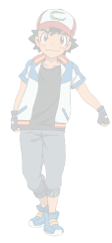
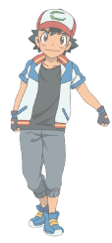
Changed opacity

diff --git a/build/app.js b/build/app.js
@@ -697,7 +697,6 @@ class Shop {
     draw() {
         const ctx = this.canvas.getContext("2d");
         ctx.clearRect(0, 0, this.canvas.width, this.canvas.height);
-        this.drawUnlockableCharacter();
         this.buttons.forEach((button) => {
             button.draw(ctx);
         });

diff --git a/src/gameScreens/Shop.ts b/src/gameScreens/Shop.ts
@@ -67,7 +67,7 @@ class Shop {
     //Clears the canvas every frame
     ctx.clearRect(0, 0, this.canvas.width, this.canvas.height);
 
-    this.drawUnlockableCharacter();
+    // this.drawUnlockableCharacter();
 
     this.buttons.forEach((button) => {
       button.draw(ctx);
